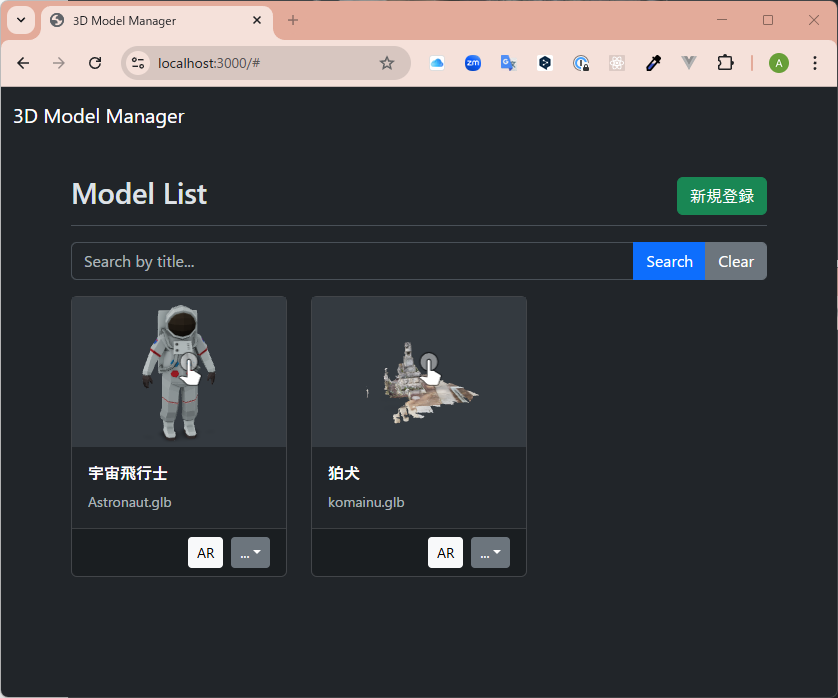
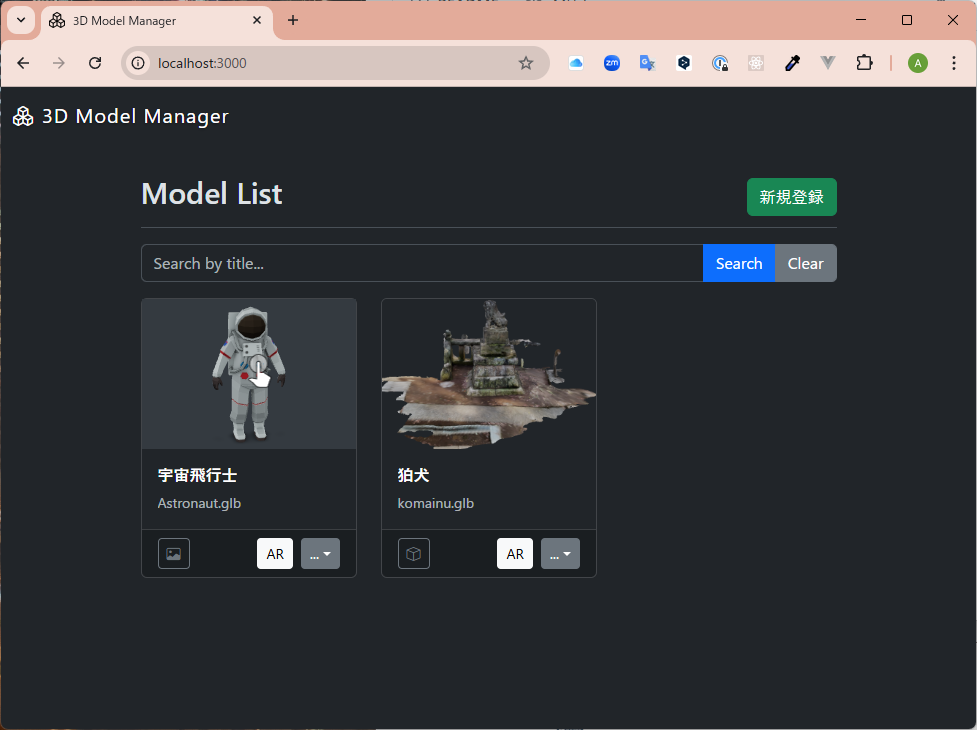
Update : index page image etc.

diff --git a/README.md b/README.md
@@ -5,7 +5,7 @@ A simple web application for uploading, managing, and viewing 3D models, built w
 ## Features
 
 - **Model Upload**: Upload 3D models in `.glb` and `.gltf` formats.
-- **Optimized List View**: Displays models in a responsive card grid. To ensure high performance, the list view prioritizes showing a lightweight PNG/JPEG thumbnail. If no thumbnail is available, it falls back to an interactive 3D preview using `<model-viewer>`.
+- **Customizable List View**: Displays models in a responsive card grid. For optimal performance, the view defaults to lightweight thumbnails. Users can switch any model's card to an interactive 3D preview on a case-by-case basis. This preference is saved in the browser, so your layout is preserved when you return.
 - **Web-based AR**: View 3D models in Augmented Reality directly from your browser on compatible iOS and Android devices.
 - **Interactive 3D Viewer**: View models in an interactive WebGL canvas. Rotate, pan, and zoom with mouse controls.
 - **CRUD Operations**: Full Create, Read, Update, and Delete functionality for models.
@@ -16,6 +16,7 @@ A simple web application for uploading, managing, and viewing 3D models, built w
 ## Tech Stack
 
 - **Backend**: Node.js, Express.js
+- **Frontend**: Bootstrap 5, Bootstrap Icons
 - **Database**: SQLite
 - **File Uploads**: Multer
 - **3D Rendering**: Three.js, `<model-viewer>`
